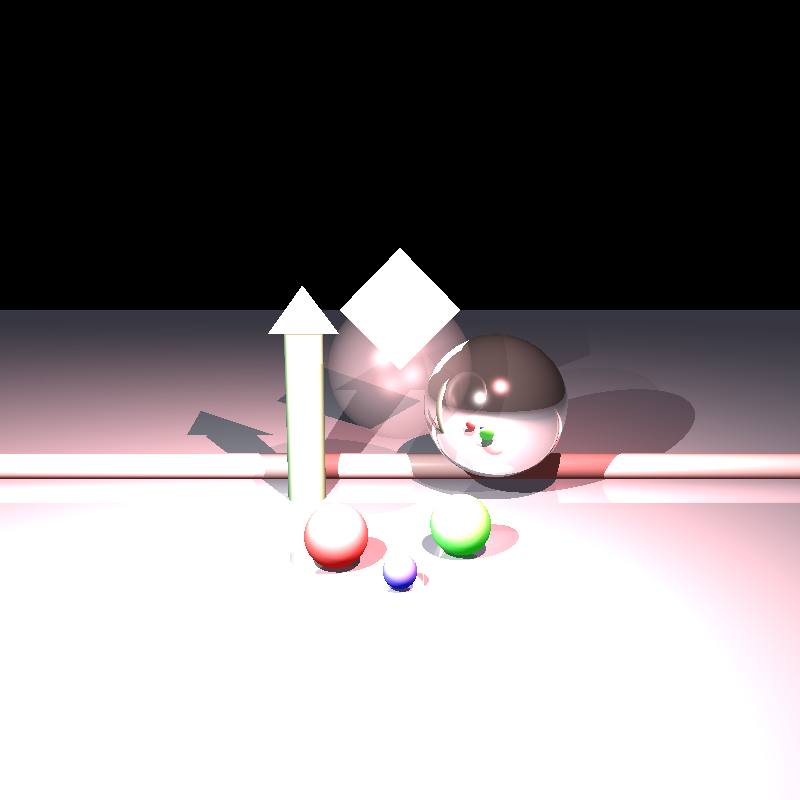
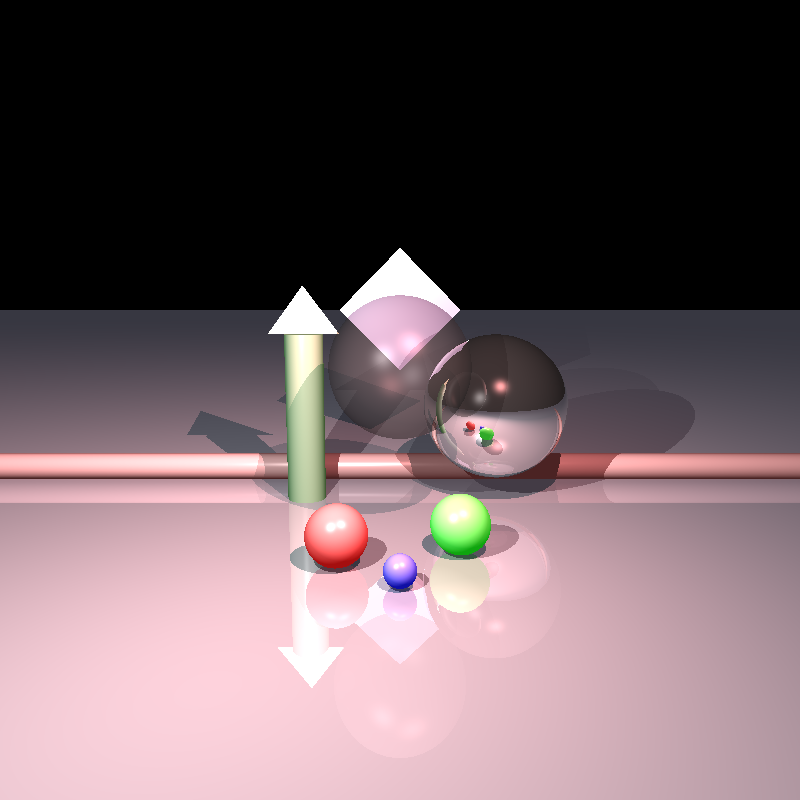
modify tests

diff --git a/unitTests/renderer/ShowcaseTests.java b/unitTests/renderer/ShowcaseTests.java
@@ -40,7 +40,7 @@ public class ShowcaseTests {
         Scene scene = new Scene("Showcase Scene");
         scene.setAmbientLight(new AmbientLight(new Color(15, 15, 15)));
 
-        Material glassMaterial = new Material().setKD(0.1).setKS(0.2).setShininess(20).setKT(0.85);
+        Material glassMaterial = new Material().setKD(0.1).setKS(0.3).setShininess(20).setKT(0.7);
         Material mirrorMaterial = new Material().setKD(0.1).setKS(0.8).setShininess(60).setKR(0.85);
         Material matteMaterial = new Material().setKD(0.5).setKS(0.5).setShininess(30);
         Material floorMaterial = new Material().setKD(0.4).setKS(0.6).setShininess(50).setKR(0.2); // Slightly reflective floor
@@ -100,9 +100,9 @@ public class ShowcaseTests {
         // ==========================================
         // LIGHTS
         // ==========================================
-        scene.lights.add(new SpotLight(new Color(700, 400, 400), new Point(40, 100, 50), new Vector(-1, -1, -1))
+        scene.lights.add(new SpotLight(new Color(350, 200, 200), new Point(40, 100, 50), new Vector(-1, -1, -1))
                 .setKl(1E-5).setKq(1.5E-7));
-        scene.lights.add(new PointLight(new Color(500, 500, 500), new Point(-50, 50, 50))
+        scene.lights.add(new PointLight(new Color(250, 250, 250), new Point(-50, 50, 50))
                 .setKl(0.00001).setKq(0.000001));
 
         // ==========================================
